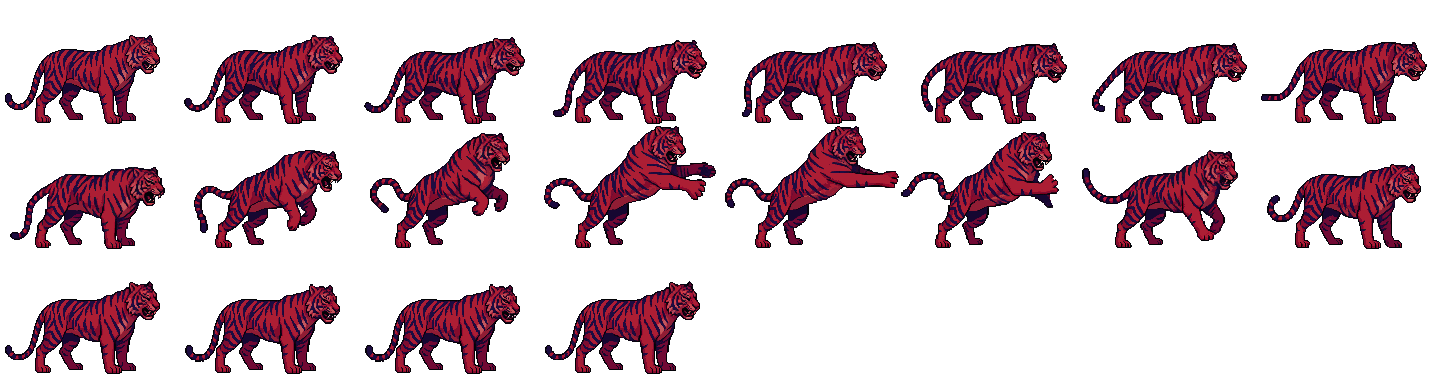
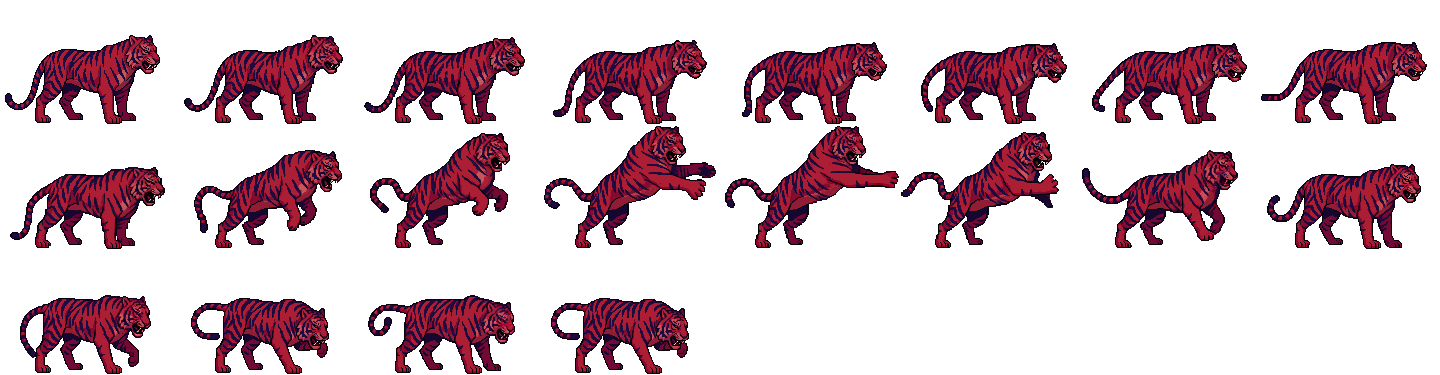
Boss art redone: eagle without its rock, steady turtle sun, no crab slash, real hurt clips
The eagle is a new PixelLab design standing on its talons with fresh clips;
the turtle's idle and attack are re-rolled (sun keeps its colour, the fire
stays in frame) and its hurt clip is hand-animated; the crab's attack has no
X slash; tiger, bull and serpent recoil when hurt. Animated foes also blush
red and lean back after the hit flash.

Claude-Session: https://claude.ai/code/session_015NF6nczcB9pq1DHZKmDsF7

Changed region(s): [[0.0, 0.7627, 0.5, 0.9973]]

diff --git a/lib/characters/anim-sheets-data.ts b/lib/characters/anim-sheets-data.ts
@@ -4,10 +4,10 @@ import type { AnimSheet } from "./anim-sheets";
 export const ANIM_SHEET_DATA: Record<string, AnimSheet> = {
   "boss_golden_serpent": {
     "id": "boss_golden_serpent",
-    "url": "/art/anims/boss_golden_serpent.png?v=34b9d2ad",
+    "url": "/art/anims/boss_golden_serpent.png?v=d68810c0",
     "frameW": 193,
-    "frameH": 144,
-    "feetY": 0.993,
+    "frameH": 165,
+    "feetY": 0.994,
     "facing": "right",
     "scale": 2.3,
     "clips": {
@@ -23,14 +23,14 @@ export const ANIM_SHEET_DATA: Record<string, AnimSheet> = {
       },
       "hurt": {
         "row": 2,
-        "frames": 4,
+        "frames": 5,
         "fps": 9
       }
     }
   },
   "boss_blood_tiger": {
     "id": "boss_blood_tiger",
-    "url": "/art/anims/boss_blood_tiger.png?v=f8cc0ea3",
+    "url": "/art/anims/boss_blood_tiger.png?v=1445f72e",
     "frameW": 180,
     "frameH": 125,
     "feetY": 0.992,
@@ -56,17 +56,17 @@ export const ANIM_SHEET_DATA: Record<string, AnimSheet> = {
   },
   "boss_sword_eagle": {
     "id": "boss_sword_eagle",
-    "url": "/art/anims/boss_sword_eagle.png?v=fc136c65",
-    "frameW": 202,
-    "frameH": 183,
-    "feetY": 0.995,
+    "url": "/art/anims/boss_sword_eagle.png?v=957bae1b",
+    "frameW": 201,
+    "frameH": 167,
+    "feetY": 0.988,
     "facing": "right",
     "scale": 2.4,
     "clips": {
       "idle": {
         "row": 0,
-        "frames": 8,
-        "fps": 7
+        "frames": 6,
+        "fps": 6
       },
       "attack": {
         "row": 1,
@@ -75,17 +75,17 @@ export const ANIM_SHEET_DATA: Record<string, AnimSheet> = {
       },
       "hurt": {
         "row": 2,
-        "frames": 4,
+        "frames": 5,
         "fps": 9
       }
     }
   },
   "boss_sun_turtle": {
     "id": "boss_sun_turtle",
-    "url": "/art/anims/boss_sun_turtle.png?v=3eaf4d9f",
-    "frameW": 215,
-    "frameH": 162,
-    "feetY": 0.988,
+    "url": "/art/anims/boss_sun_turtle.png?v=1ec91559",
+    "frameW": 203,
+    "frameH": 153,
+    "feetY": 0.987,
     "facing": "right",
     "scale": 2.6,
     "clips": {
@@ -101,17 +101,17 @@ export const ANIM_SHEET_DATA: Record<string, AnimSheet> = {
       },
       "hurt": {
         "row": 2,
-        "frames": 4,
-        "fps": 8
+        "frames": 5,
+        "fps": 9
       }
     }
   },
   "boss_blade_crab": {
     "id": "boss_blade_crab",
-    "url": "/art/anims/boss_blade_crab.png?v=371ec1ad",
-    "frameW": 152,
-    "frameH": 136,
-    "feetY": 0.963,
+    "url": "/art/anims/boss_blade_crab.png?v=f0fb163b",
+    "frameW": 149,
+    "frameH": 128,
+    "feetY": 0.961,
     "facing": "right",
     "scale": 2.5,
     "clips": {
@@ -134,9 +134,9 @@ export const ANIM_SHEET_DATA: Record<string, AnimSheet> = {
   },
   "boss_flame_bull": {
     "id": "boss_flame_bull",
-    "url": "/art/anims/boss_flame_bull.png?v=4df25bdb",
-    "frameW": 188,
-    "frameH": 139,
+    "url": "/art/anims/boss_flame_bull.png?v=bca8c7ff",
+    "frameW": 195,
+    "frameH": 143,
     "feetY": 0.993,
     "facing": "right",
     "scale": 2.4,
@@ -154,7 +154,7 @@ export const ANIM_SHEET_DATA: Record<string, AnimSheet> = {
       "hurt": {
         "row": 2,
         "frames": 4,
-        "fps": 9
+        "fps": 8
       }
     }
   },

diff --git a/scripts/build-anim-sheets.ts b/scripts/build-anim-sheets.ts
@@ -31,12 +31,12 @@ const pingPong = (n: number) => [...Array(n).keys(), ...Array.from({ length: n -
 const range = (a: number, b: number) => Array.from({ length: b - a + 1 }, (_, i) => a + i);
 
 const SUBJECTS: Record<string, Subject> = {
-  boss_golden_serpent: { scale: 2.3, clips: { idle: { frames: range(0, 7), fps: 7 }, attack: { frames: range(1, 8), fps: 11 }, hurt: { frames: [1, 2, 3, 4], fps: 9 } } },
-  boss_blood_tiger: { scale: 2.2, clips: { idle: { frames: range(0, 7), fps: 7 }, attack: { frames: range(1, 8), fps: 11 }, hurt: { frames: [1, 2, 2, 1], fps: 8 } } },
-  boss_sword_eagle: { scale: 2.4, clips: { idle: { frames: range(0, 7), fps: 7 }, attack: { frames: range(1, 8), fps: 11 }, hurt: { frames: [1, 2, 3, 4], fps: 9 } } },
-  boss_sun_turtle: { scale: 2.6, clips: { idle: { frames: pingPong(5), fps: 6 }, attack: { frames: range(3, 8), fps: 9 }, hurt: { frames: [1, 2, 3, 2], fps: 8 } } },
+  boss_golden_serpent: { scale: 2.3, clips: { idle: { frames: range(0, 7), fps: 7 }, attack: { frames: range(1, 8), fps: 11 }, hurt: { frames: range(1, 5), fps: 9 } } },
+  boss_blood_tiger: { scale: 2.2, clips: { idle: { frames: range(0, 7), fps: 7 }, attack: { frames: range(1, 8), fps: 11 }, hurt: { frames: [3, 4, 5, 4], fps: 8 } } },
+  boss_sword_eagle: { scale: 2.4, clips: { idle: { frames: pingPong(4), fps: 6 }, attack: { frames: range(1, 8), fps: 11 }, hurt: { frames: [1, 3, 4, 5, 6], fps: 9 } } },
+  boss_sun_turtle: { scale: 2.6, clips: { idle: { frames: pingPong(5), fps: 6 }, attack: { frames: range(1, 6), fps: 9 }, hurt: { frames: range(1, 5), fps: 9 } } },
   boss_blade_crab: { scale: 2.5, clips: { idle: { frames: pingPong(5), fps: 7 }, attack: { frames: range(1, 8), fps: 11 }, hurt: { frames: [1, 2, 3, 4], fps: 9 } } },
-  boss_flame_bull: { scale: 2.4, clips: { idle: { frames: range(0, 7), fps: 7 }, attack: { frames: range(1, 7), fps: 11 }, hurt: { frames: [1, 2, 3, 4], fps: 9 } } },
+  boss_flame_bull: { scale: 2.4, clips: { idle: { frames: range(0, 7), fps: 7 }, attack: { frames: range(1, 7), fps: 11 }, hurt: { frames: [1, 3, 4, 5], fps: 8 } } },
   t5_nameless_sword_hermit: { scale: 1.08, clips: { idle: { frames: pingPong(5), fps: 6 }, attack: { frames: range(1, 8), fps: 12 }, hurt: { frames: [1, 2, 3, 2], fps: 9 } } },
   t5_blood_blade_lord: { scale: 1.15, clips: { idle: { frames: pingPong(5), fps: 6 }, attack: { frames: range(1, 8), fps: 11 }, hurt: { frames: [1, 2, 3, 1], fps: 9 } } },
   t5_poison_matriarch: { scale: 1.05, clips: { idle: { frames: pingPong(5), fps: 6 }, attack: { frames: range(1, 8), fps: 10 }, hurt: { frames: [1, 2, 2, 1], fps: 9 } } },

diff --git a/lib/stage/grid-battle-runtime.ts b/lib/stage/grid-battle-runtime.ts
@@ -798,7 +798,8 @@ export function createGridBattleRuntime(parent: HTMLElement, options: GridBattle
       else if (motion === "hurt" && sheet.clips.hurt) frame = animFrame(sheet.clips.hurt, columns, age, false);
       else frame = animFrame(sheet.clips.idle, columns, reduced ? 0 : elapsed + actor.index * 170, true);
       if (frame !== actor.frame) { actor.image.setFrame(frame, false, false); actor.frame = frame; }
-      if (motion === "hurt" && !sheet.clips.hurt && !reduced) rotation = -actor.hFacing * 0.04;
+      // Lean back on a hit (more when the sheet has no hurt clip) so every blow reads.
+      if (motion === "hurt" && !reduced) rotation = -actor.hFacing * (sheet.clips.hurt ? 0.025 : 0.04);
       if (motion === "defeat") {
         const k = reduced ? 1 : Math.min(1, (elapsed - actor.deadAt) / 700);
         const ease = 1 - (1 - k) * (1 - k);
@@ -834,6 +835,8 @@ export function createGridBattleRuntime(parent: HTMLElement, options: GridBattle
       .setRotation(rotation).setAlpha(alpha)
       .setDepth(5 + actor.v * 2 + actor.index * 0.001 + (actor.attack ? 0.5 : 0));
     if (actor.flashUntil > elapsed) actor.image.setTint(0xffffff).setTintMode(Phaser.TintModes.FILL);
+    // Big animated foes blush red for the rest of a hit, fading as the hurt clip ends.
+    else if (actor.anim && motion === "hurt" && !reduced) actor.image.setTint(hurtTint(actor.tint ?? 0xffffff, (actor.hurtUntil - elapsed) / 320)).setTintMode(Phaser.TintModes.MULTIPLY);
     else if (actor.tint !== undefined) actor.image.setTint(actor.tint).setTintMode(Phaser.TintModes.MULTIPLY);
     else actor.image.clearTint().setTintMode(Phaser.TintModes.MULTIPLY);
     if (ghostNow && elapsed - actor.lastGhost > 45) { actor.lastGhost = elapsed; leaveGhost(actor); }
@@ -1372,6 +1375,13 @@ function loadImage(url: string): Promise<HTMLImageElement> {
     image.onerror = () => reject(new Error(`Battle artwork failed to load: ${url}`));
     image.src = url;
   });
+}
+
+/** A multiply tint `base` pulled toward blood red by `k` (0..1). */
+function hurtTint(base: number, k: number): number {
+  const t = Math.max(0, Math.min(1, k)) * 0.55;
+  const mix = (shift: number, to: number) => Math.round(((base >> shift) & 0xff) * (1 - t) + to * t);
+  return (mix(16, 0xff) << 16) | (mix(8, 0x70) << 8) | mix(0, 0x70);
 }
 
 /** Visible feet line of one creature-atlas cell (0..1 of the cell height). */

diff --git a/docs/assets.md b/docs/assets.md
@@ -152,6 +152,8 @@ The six legendary beasts (บอส) and the six tier-5 foes are not library ass
 
 **Prompting lessons.** v3 drifts on long idles (a sword creeps up, a coil unwinds), so most idles play a ping-pong of their first five frames. "Hit reaction" prompts often draw a white impact flash or turn into a counter-strike; "is hurt by a blow to its face … shrinks back … No effects" gives a clean flinch. Say what must stay ("the sun orb stays fixed on top of the shell") or the model may spend it — the first turtle attack threw its sun away. The raw takes, picks and object ids stay in the raw directory, never in the repo.
 
+**Boss re-rolls (2026-10-08, about 60 generations).** The first boss sheets had faults that were re-rolled on the same objects: the turtle's sun changed colour in idle and its fire jet ran off the frame ("keeps exactly the same colour… a SHORT burst of fire that stays close in front of its mouth"); the crab's attack drew a white X ("No slash marks, no white flash, no X shapes"); the tiger's, bull's and serpent's hurt clips barely moved ("recoils hard… crouches low and slides backward", picking the frames without an impact flash). The eagle stood on a painted rock, so it got a new design (`create_image_pro` with the old eagle as `style_image_url`, "standing directly on the ground on its two talons, no rock"), a new 224 × 184 object and three new clips. Two turtle hurt takes still invented things (a swirl, an arrow), so its hurt clip is hand-made with `pixelart_workbench draw`: the head cut out onto a layer behind the shell and slid back under it while the body rocks 2 px — every pixel stays the original. In battle every animated foe also flashes white, blushes red and is knocked back when hit (`grid-battle-runtime.ts`).
+
 ## Budget used
 
 The first library (2026-10-04) cost **6,983 PixelLab generations** of a 7,000 cap (balance 9,952 → 2,969):

diff --git a/HANDOFF.md b/HANDOFF.md
@@ -137,7 +137,7 @@ Real behaviour today, found during the docs audit. Each is small and self-contai
 ### Roaming foes
 
 - **Only roads and wilds, and only where they live.** Each foe has habitats (`lib/world/data/habitats.ts`); cities, villages, homes, inns, sects, temples and the palace get no stray foes, and a kill quest's quarry comes only to its habitat (town foes: thieves, drunks, ruffians, the false fortune-teller).
-- **Legendary beasts.** Six bosses wait in their lairs (`lib/world/data/bosses.ts`) and return 90 days after they fall. Their trophies (`trophy_*`) sell well but no recipe uses them yet. Some PixelLab clips are weak: the iron monk's, blood tiger's and poison matriarch's hurt clips barely move; the turtle's fire jet is cut at the frame edge on one attack frame; the eagle's rock is part of its sprite.
+- **Legendary beasts.** Six bosses wait in their lairs (`lib/world/data/bosses.ts`) and return 90 days after they fall. Their trophies (`trophy_*`) sell well but no recipe uses them yet. The boss sheets were redone on 2026-10-08 (no eagle rock, steady turtle sun, no crab slash, clear hurt clips); among T5 the iron monk's and poison matriarch's hurt clips still barely move (the battle's hit flash, red tint and knockback carry them).
 - **Ghost lore left.** The NPC วิญญาณเหลียงเก๋อ (a cutscene spirit) and a few wilderness quest lines still speak of ghosts; no foe is a spirit any more.
 - **Foes can stand on painted scenery.** A spawn spot only needs to be unblocked and reachable by the collision data, so on maps whose collision is loose (the capital's outer wall, for one) a foe can appear somewhere that looks out of bounds.
 - **Not saved.** A reload clears the foes on the map; they also go when the hero walks on another map.

diff --git a/docs/changelog.md b/docs/changelog.md
@@ -4,6 +4,13 @@ What changed, when, and in which pull request. Newest first. Each entry says wha
 
 Pull requests are on [github.com/tao-Isaman/wuxia-world](https://github.com/tao-Isaman/wuxia-world/pulls?q=is%3Apr+is%3Amerged). The waves are the build → test → review rounds the agents worked in (see [HANDOFF.md](../HANDOFF.md)).
 
+## 2026-10-08
+
+### Boss art redone
+
+- **The six bosses' sheets** were re-rolled where they were weak: the eagle has a new design standing on its talons (no rock) and a side-on attack; the turtle's sun keeps its colour, its fire burst stays in the frame and its hurt clip pulls the head under the shell (hand-animated); the crab's pincer strike has no white X; the tiger, bull and serpent have hurt clips that clearly recoil.
+- Animated foes blush red and lean back for the rest of a hit after the white flash (`grid-battle-runtime.ts`).
+
 ## 2026-10-07
 
 ### Foes live where they belong; tier 5; six legendary beasts
